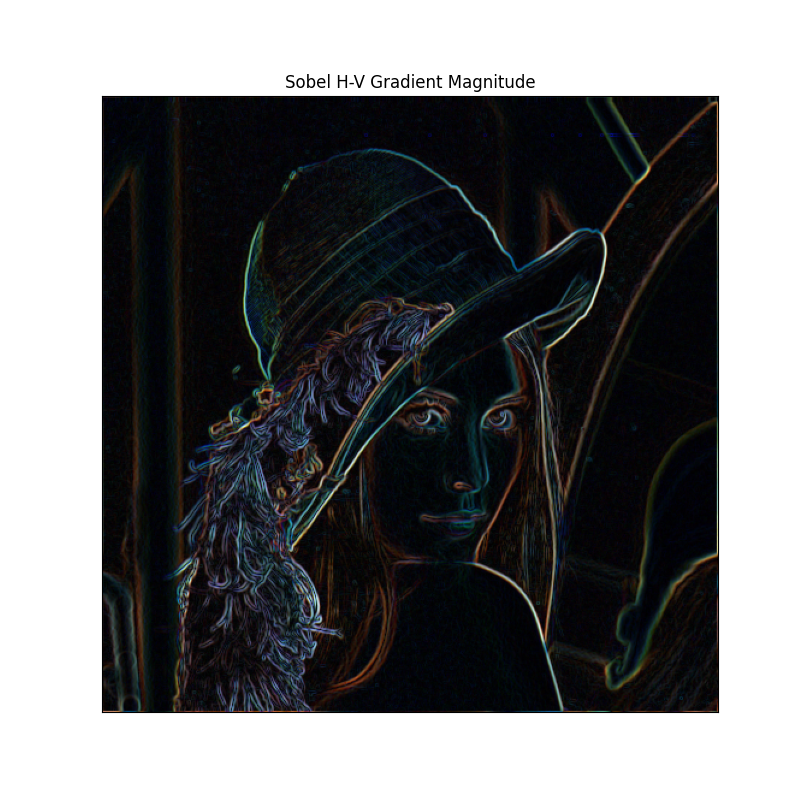
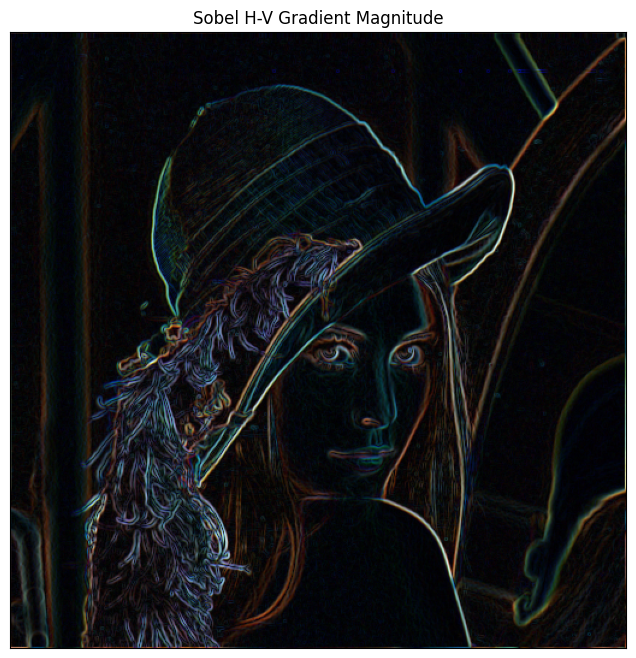
Fix image saving sizes and remove blocking plt.show()

diff --git a/color-edge-qft.py b/color-edge-qft.py
@@ -279,7 +279,7 @@ if __name__ == '__main__':
     img_sobelx, img_sobely = color_xyedge_det(img)
 
     # Show
-    fig, (ax1, ax2, ax3) = plt.subplots(ncols=3, nrows=1)
+    fig, (ax1, ax2, ax3) = plt.subplots(ncols=3, nrows=1, figsize=(15, 5))
 
     ax1.imshow(img, cmap='gray')
     ax1.set_title('Input image'), ax1.set_xticks([]), ax1.set_yticks([])
@@ -289,8 +289,7 @@ if __name__ == '__main__':
 
     ax3.imshow(img_sobely[:, :, 1:], cmap='gray')
     ax3.set_title('IQFT Sobel Y'), ax3.set_xticks([]), ax3.set_yticks([])
-    fig.savefig('./images/sobel-hv.png', transparent=True)
-    plt.show()
+    fig.savefig('./images/sobel-hv.png', transparent=True, bbox_inches='tight')
 
     # Combine horizontal and vertical sobel filter to get gradient magnitude
     grad_mag = gradient_magnitude_qft(img)
@@ -300,5 +299,4 @@ if __name__ == '__main__':
     plt.xticks([])
     plt.yticks([])
     plt.imshow(grad_mag[:, :, 1:], cmap='gray')
-    plt.savefig('./images/sobel-grad-mag.png', transparent=True)
-    plt.show()
+    plt.savefig('./images/sobel-grad-mag.png', transparent=True, bbox_inches='tight')
